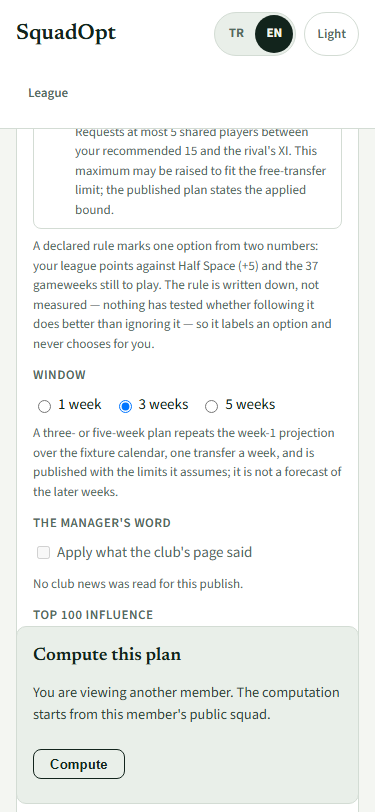
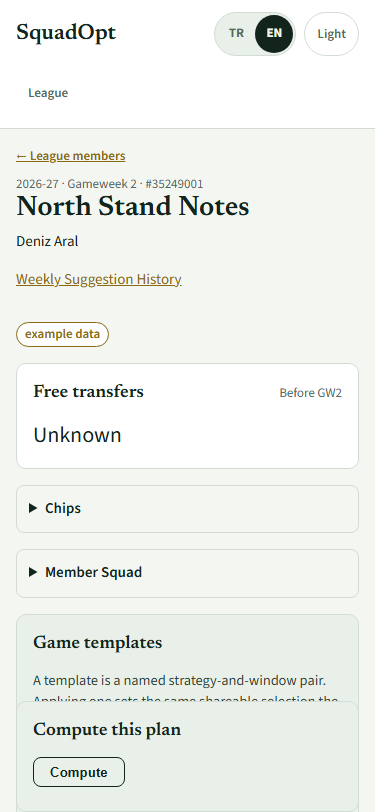
fix: keep mobile compute status compact and accessible

diff --git a/web/e2e/member-mobile.spec.ts b/web/e2e/member-mobile.spec.ts
@@ -1,7 +1,10 @@
 import AxeBuilder from "@axe-core/playwright";
 import { expect, test } from "@playwright/test";
 import { MESSAGES } from "../src/i18n/messages";
+import { mockEntrySquadEnvelopes } from "../src/fixtures/league";
 import { installLeagueMocks } from "./leagueMocks";
+
+const apiOrigin = process.env.SQUADOPT_MOBILE_API_ORIGIN;
 
 for (const language of ["tr", "en"] as const) {
   test(`member controls fit a phone in ${language}`, async ({ page }, testInfo) => {
@@ -16,12 +19,20 @@ for (const language of ["tr", "en"] as const) {
       await expect(detail).not.toHaveAttribute("open");
       await detail.locator("summary").click();
       await expect(detail).toHaveAttribute("open", "");
-      expect(await page.evaluate(() => document.documentElement.scrollWidth)).toBe(375);
+      expect(
+        await page.evaluate(
+          () => document.documentElement.scrollWidth <= document.documentElement.clientWidth,
+        ),
+      ).toBe(true);
       await detail.locator("summary").click();
     }
     const summary = page.getByTestId("member-selection-summary");
     await expect(summary).toContainText(copy.decision.week(3));
-    await expect(summary).toContainText("Top 100 0");
+    await expect(summary).not.toContainText("Top 100 0");
+    await page.evaluate(() => window.scrollTo(0, 0));
+    await page.screenshot({ path: testInfo.outputPath(`member-top-${language}.png`) });
+    await summary.scrollIntoViewIfNeeded();
+    await page.screenshot({ path: testInfo.outputPath(`member-summary-${language}.png`) });
     const tableScroll = page.locator('div[tabindex="0"]').filter({ has: page.locator("table") });
     await tableScroll.focus();
     await page.keyboard.press("ArrowRight");
@@ -33,7 +44,17 @@ for (const language of ["tr", "en"] as const) {
     await expect(
       page.getByRole("button", { name: copy.leagueMembers.computeButton, exact: true }),
     ).toBeInViewport();
-    expect(await page.evaluate(() => document.documentElement.scrollWidth)).toBe(375);
+    await expect
+      .poll(async () => {
+        const box = await page.locator("[data-compute-dock]").boundingBox();
+        return box ? Math.abs(box.y + box.height - 812) : 999;
+      })
+      .toBeLessThanOrEqual(1);
+    expect(
+      await page.evaluate(
+        () => document.documentElement.scrollWidth <= document.documentElement.clientWidth,
+      ),
+    ).toBe(true);
     const results = await new AxeBuilder({ page }).analyze();
     expect(
       results.violations.filter((v) => ["serious", "critical"].includes(v.impact ?? "")),
@@ -45,5 +66,58 @@ for (const language of ["tr", "en"] as const) {
     await page.screenshot({ path: testInfo.outputPath(`member-controls-${language}.png`) });
     await page.setViewportSize({ width: 1280, height: 900 });
     for (const detail of await details.all()) await expect(detail).toHaveAttribute("open", "");
+  });
+
+  test(`waiting compute dock stays compact in ${language}`, async ({ page }, testInfo) => {
+    test.skip(
+      !apiOrigin,
+      "Run with a build using SQUADOPT_MOBILE_API_ORIGIN as VITE_ADVICE_API_ORIGIN.",
+    );
+    await page.setViewportSize({ width: 375, height: 812 });
+    await installLeagueMocks(page);
+    await page.addInitScript((lang) => localStorage.setItem("squadopt.language", lang), language);
+    const squad = mockEntrySquadEnvelopes[35249001]!.payload;
+    await page.route(`${apiOrigin}/api/v1/**`, async (route) => {
+      const url = route.request().url();
+      const [status, body] = url.endsWith("/capabilities")
+        ? [
+            200,
+            {
+              contract_version: "league_capabilities_v1",
+              league_id: squad.league_id,
+              season: squad.season,
+              gameweek: squad.gameweek,
+              capture_snapshot_id: squad.source_snapshot_id,
+              strategies: { "saf-puan": { windows: [1, 3, 5], requires_rival: false } },
+              top100: { available: true, weights: [0, 20] },
+              managers_word: { available: false },
+            },
+          ]
+        : url.includes("/advice-jobs/")
+          ? [200, { job_id: "mobile-waiting", status: "running" }]
+          : route.request().method() === "POST"
+            ? [202, { job_id: "mobile-waiting" }]
+            : [404, { error: { code: "NOT_COMPUTED" } }];
+      await route.fulfill({
+        status: status as number,
+        contentType: "application/json",
+        body: JSON.stringify(body),
+      });
+    });
+    await page.goto("/league/members/35249001?window=3&top100=20");
+    const copy = MESSAGES[language].leagueMembers;
+    await page.getByRole("button", { name: copy.computeButton, exact: true }).click();
+    await expect(page.getByText(copy.computeRunning, { exact: true })).toBeVisible();
+    await page.getByRole("radio", { name: /^1 / }).scrollIntoViewIfNeeded();
+    const dock = page.locator("[data-compute-dock]");
+    const box = await dock.boundingBox();
+    expect(box!.height).toBeLessThanOrEqual(812 * 0.45 + 1);
+    expect(Math.abs(box!.y + box!.height - 812)).toBeLessThanOrEqual(1);
+    expect(
+      await page.evaluate(
+        () => document.documentElement.scrollWidth <= document.documentElement.clientWidth,
+      ),
+    ).toBe(true);
+    await page.screenshot({ path: testInfo.outputPath(`member-waiting-${language}.png`) });
   });
 }

diff --git a/web/src/features/league/pages/LeagueMemberView.tsx b/web/src/features/league/pages/LeagueMemberView.tsx
@@ -110,7 +110,7 @@ function LeagueMemberContent({
     selection.request.rivalEntryId !== null
       ? `${copy.rivalLabel}: ${selectedRival?.team_name ?? selectedRival?.manager_name ?? `#${selection.request.rivalEntryId}`}`
       : null,
-    `Top 100 ${selection.top100.weight}`,
+    selection.top100.weight !== 0 ? `Top 100 ${selection.top100.weight}` : null,
     selection.evidence.on ? EVIDENCE_COPY[language].legend : null,
     selection.chip.chip ? copy.chipNames[selection.chip.chip] : null,
   ]
@@ -170,7 +170,7 @@ function LeagueMemberContent({
 
       {view.starting_xi.length > 0 ? (
         <details className={styles.contextDetails} open={contextExpanded}>
-          <summary>{copy.memberSquad}</summary>
+          <summary>{contextExpanded ? copy.memberSquad : <h2>{copy.memberSquad}</h2>}</summary>
           <div className={styles.squadContext}>
             <Card
               tone="pitch"
@@ -245,7 +245,7 @@ function LeagueMemberContent({
           index={selection.status === "index-error" ? null : index}
           capabilities={capabilities}
         />
-        <div className={styles.computeDock}>
+        <div className={styles.computeDock} data-compute-dock>
           <AdviceRequestPanel
             request={request}
             job={job}

diff --git a/web/src/features/league/pages/LeagueMemberPage.module.css b/web/src/features/league/pages/LeagueMemberPage.module.css
@@ -20,6 +20,11 @@
   font-weight: 600;
   overflow-wrap: anywhere;
 }
+.contextDetails > summary > h2 {
+  display: inline;
+  font: inherit;
+  margin: 0;
+}
 
 @media (min-width: 641px) {
   .contextDetails > summary {
@@ -243,9 +248,17 @@
 }
 
 @media (max-width: 640px) {
+  :global(html) {
+    scroll-padding-bottom: 45dvh;
+  }
+  .squadContext > section > header > h2 {
+    display: none;
+  }
   .computeDock {
     position: sticky;
-    bottom: var(--space-2);
+    bottom: 0;
+    max-height: 45dvh;
+    overflow-y: auto;
     z-index: 5;
   }
 

diff --git a/web/src/features/league/pages/MemberAdviceCard.tsx b/web/src/features/league/pages/MemberAdviceCard.tsx
@@ -431,7 +431,12 @@ function WindowSection({ view }: { view: EntryAdvice }) {
     <section className={styles.window} aria-label={title}>
       <h3 className={styles.lineupTitle}>{title}</h3>
       <p className={styles.honesty}>{copy.windowRule}</p>
-      <div className={styles.windowScroll} tabIndex={0}>
+      <div
+        className={styles.windowScroll}
+        tabIndex={0}
+        role="region"
+        aria-label={`${title}: ${copy.windowWeek}`}
+      >
         <table className={styles.windowTable}>
           <thead>
             <tr>

diff --git a/web/src/features/league/components/MemberResourceCards.tsx b/web/src/features/league/components/MemberResourceCards.tsx
@@ -28,7 +28,7 @@ export function MemberResourceCards({
         </p>
       </Card>
       <details className={styles.details} open={expanded}>
-        <summary>{copy.chipsTitle}</summary>
+        <summary>{expanded ? copy.chipsTitle : <h2>{copy.chipsTitle}</h2>}</summary>
         <Card title={copy.chipsTitle} aside={copy.asOf(squad.gameweek)}>
           {!chips?.known ? (
             <p>{copy.chipsMissing}</p>

diff --git a/web/src/features/league/components/MemberResourceCards.module.css b/web/src/features/league/components/MemberResourceCards.module.css
@@ -10,6 +10,16 @@
   cursor: pointer;
   font-weight: 600;
 }
+.details > summary > h2 {
+  display: inline;
+  font: inherit;
+  margin: 0;
+}
+@media (max-width: 640px) {
+  .details > section > header > h2 {
+    display: none;
+  }
+}
 @media (min-width: 641px) {
   .details > summary {
     display: none;

diff --git a/web/src/features/league/advice/AdviceRequestPanel.module.css b/web/src/features/league/advice/AdviceRequestPanel.module.css
@@ -3,6 +3,11 @@
   font-size: 0.9rem;
   opacity: 0.85;
 }
+@media (max-width: 640px) {
+  :global([data-compute-dock]) .hint {
+    display: none;
+  }
+}
 
 .controls {
   display: flex;
